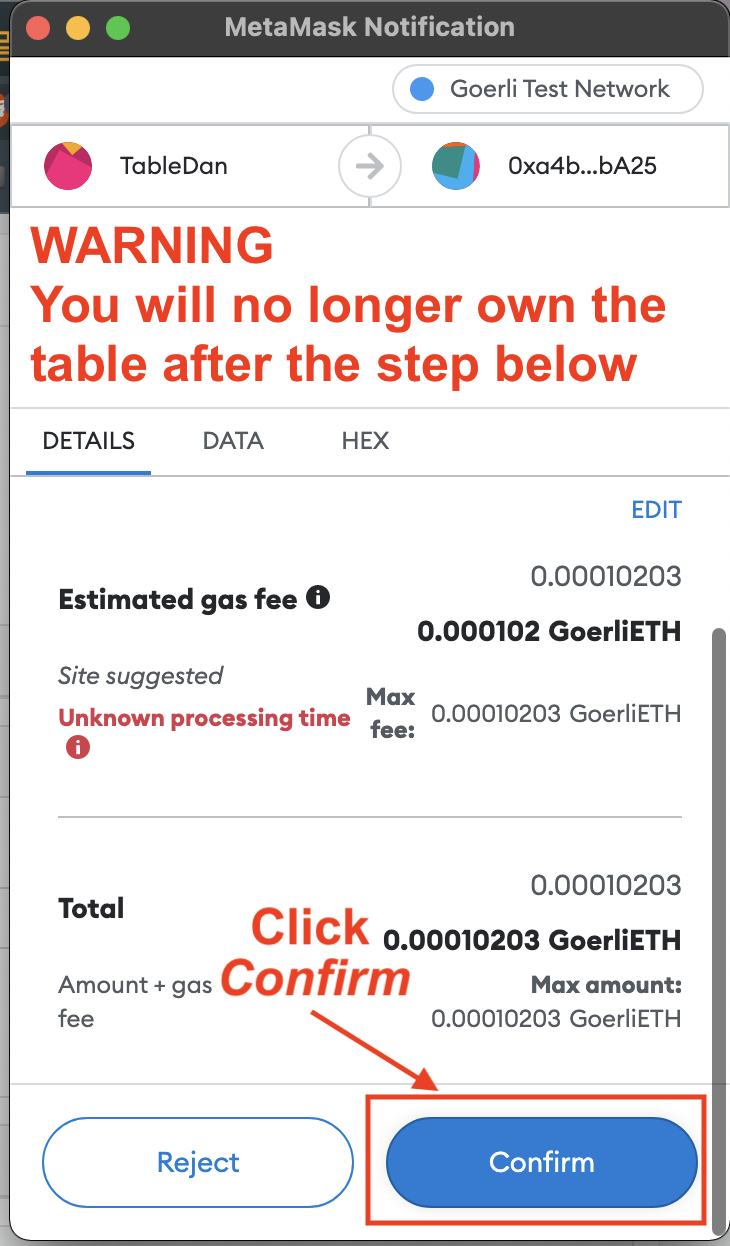
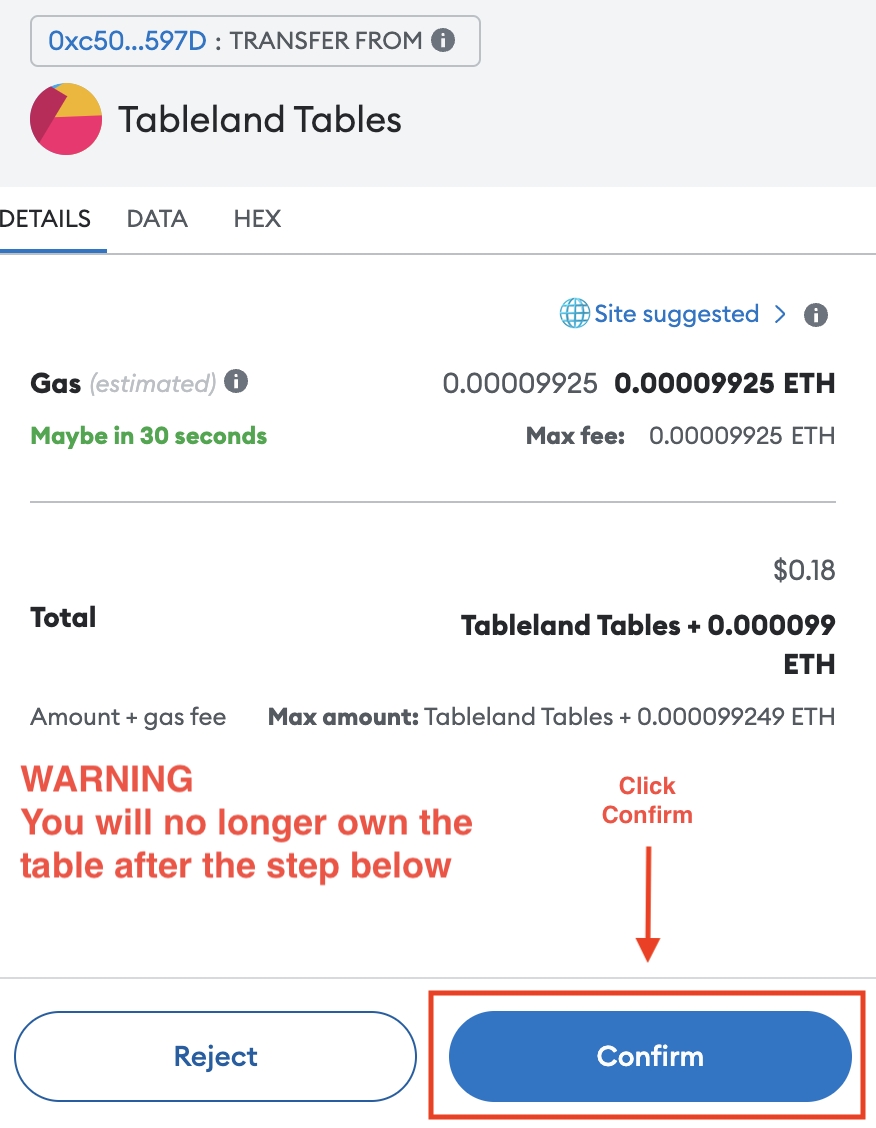
Update immutable table doc with images

diff --git a/docs/smart-contracts/immutable-table.md b/docs/smart-contracts/immutable-table.md
@@ -54,16 +54,16 @@ TablelandDeployments.get().safeTransferFrom(DOCS_ADDR, 0x00000000000000000000000
 import writeAsProxy from "@site/static/assets/smart-contracts/immutable-table/write-as-proxy.png";
 import connectToWeb3 from "@site/static/assets/smart-contracts/immutable-table/connect_to_web3.png";
 import connectImg from "@site/static/assets/smart-contracts/immutable-table/connect.png";
-import goerliWarning from "@site/static/assets/smart-contracts/immutable-table/goerli_warning.png";
+import sepoliaWarning from "@site/static/assets/smart-contracts/immutable-table/sepolia_warning.png";
 import connectedImg from "@site/static/assets/smart-contracts/immutable-table/connected.png";
 import confirmTx from "@site/static/assets/smart-contracts/immutable-table/confirm_tx.png";
 import viewTx from "@site/static/assets/smart-contracts/immutable-table/view_the_tx.png";
 
 ## Using Etherscan
 
-Let’s assume you’ve created a table on Ethereum Goerli. You can use [Etherscan](https://goerli.etherscan.io/) to interact with the Tableland registry contract and burn your table by transferring it.
+Let’s assume you’ve created a table on Ethereum Sepolia. You can use [Etherscan](https://sepolia.etherscan.io/) to interact with the Tableland registry contract and burn your table by transferring it.
 
-1. Navigate to the registry contract on [Etherscan Goerli](https://goerli.etherscan.io/address/0xda8ea22d092307874f30a1f277d1388dca0ba97a#writeProxyContract) and click the _Write as Proxy_ tab.
+1. Navigate to the registry contract on [Etherscan Sepolia](https://sepolia.etherscan.io/address/0xc50C62498448ACc8dBdE43DA77f8D5D2E2c7597D#writeProxyContract) and click the _Write as Proxy_ tab.
 
   <img src={writeAsProxy} width='60%'/>
 
@@ -78,15 +78,15 @@ Let’s assume you’ve created a table on Ethereum Goerli. You can use [Ethersc
 
 5. Refresh the page, click _Connect_ again, select MetaMask, and then proceed after seeing the following message.
 
-    <img src={goerliWarning} width='60%'/>
+    <img src={sepoliaWarning} width='60%'/>
 
    - Note: Etherscan doesn’t have the _best_ user experience when it comes to the connection workflow, which is why you may have to refresh after connecting.
 
-6. Verify you’re connected to the Goerli network.
+6. Verify you’re connected to the Sepolia network.
 
    <img src={connectedImg} width='60%'/>
 
-7. Each of the accordions are methods of the Tableland registry smart contract. Scroll down to either [`safeTransferFrom`](https://goerli.etherscan.io/address/0xda8ea22d092307874f30a1f277d1388dca0ba97a#writeProxyContract#F8) or [`transferFrom`](https://goerli.etherscan.io/address/0xda8ea22d092307874f30a1f277d1388dca0ba97a#writeProxyContract#F13).
+7. Each of the accordions are methods of the Tableland registry smart contract. Scroll down to either [`safeTransferFrom`](https://sepolia.etherscan.io/address/0xc50C62498448ACc8dBdE43DA77f8D5D2E2c7597D#writeProxyContract#F8) or [`transferFrom`](https://sepolia.etherscan.io/address/0xc50C62498448ACc8dBdE43DA77f8D5D2E2c7597D#writeProxyContract#F13).
    1. The `tokenId` of a table that you want to make immutable.
    2. Your address (the table's owner) in `from`
    3. The address it should be sent `to`, which is [`0x000000000000000000000000000000000000dEaD`](https://etherscan.io/address/0x000000000000000000000000000000000000dEaD)).
